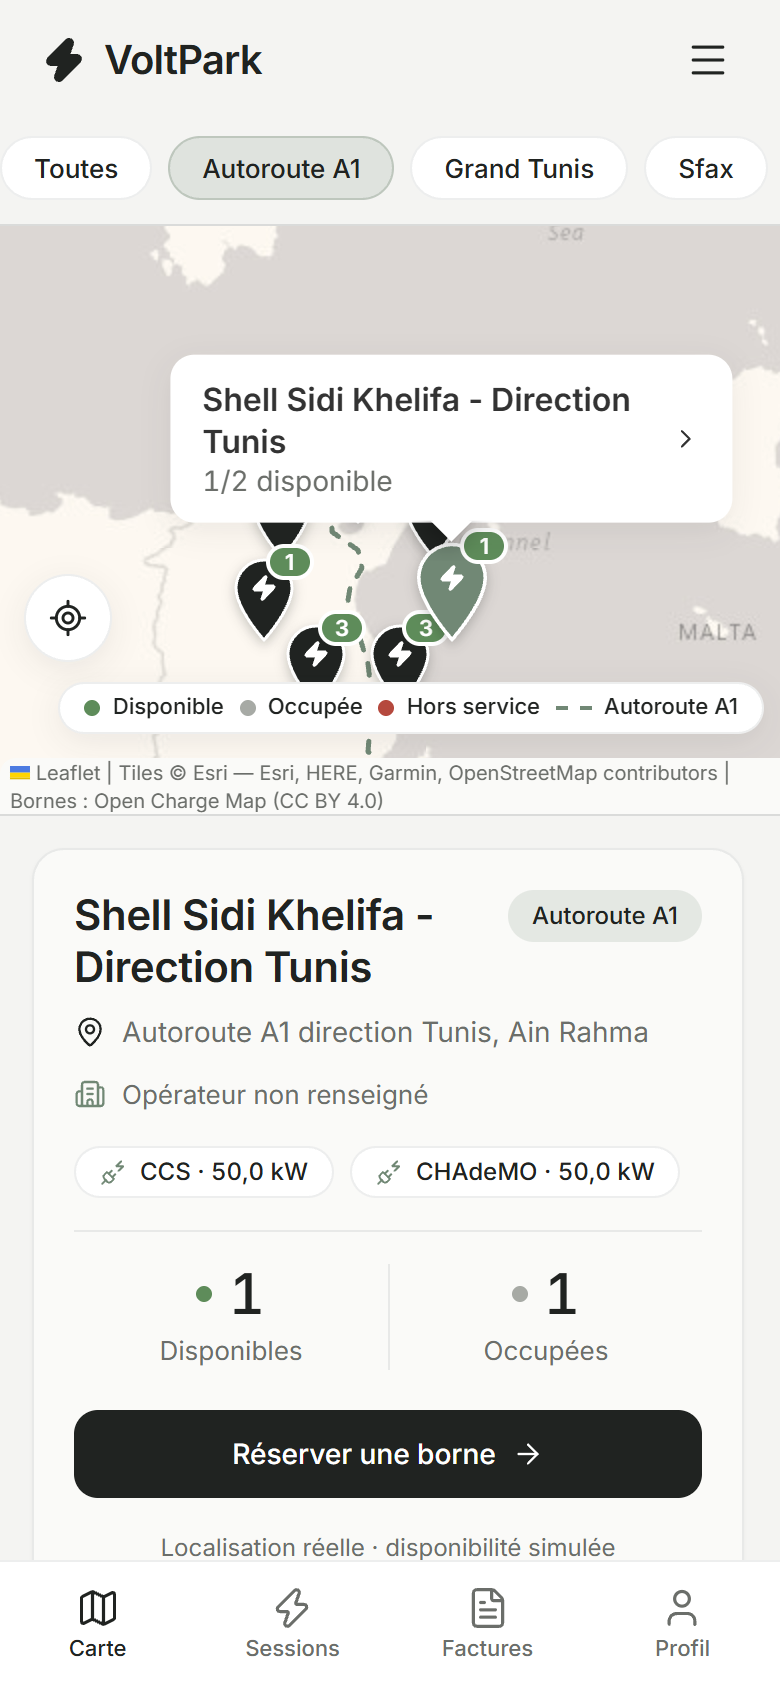
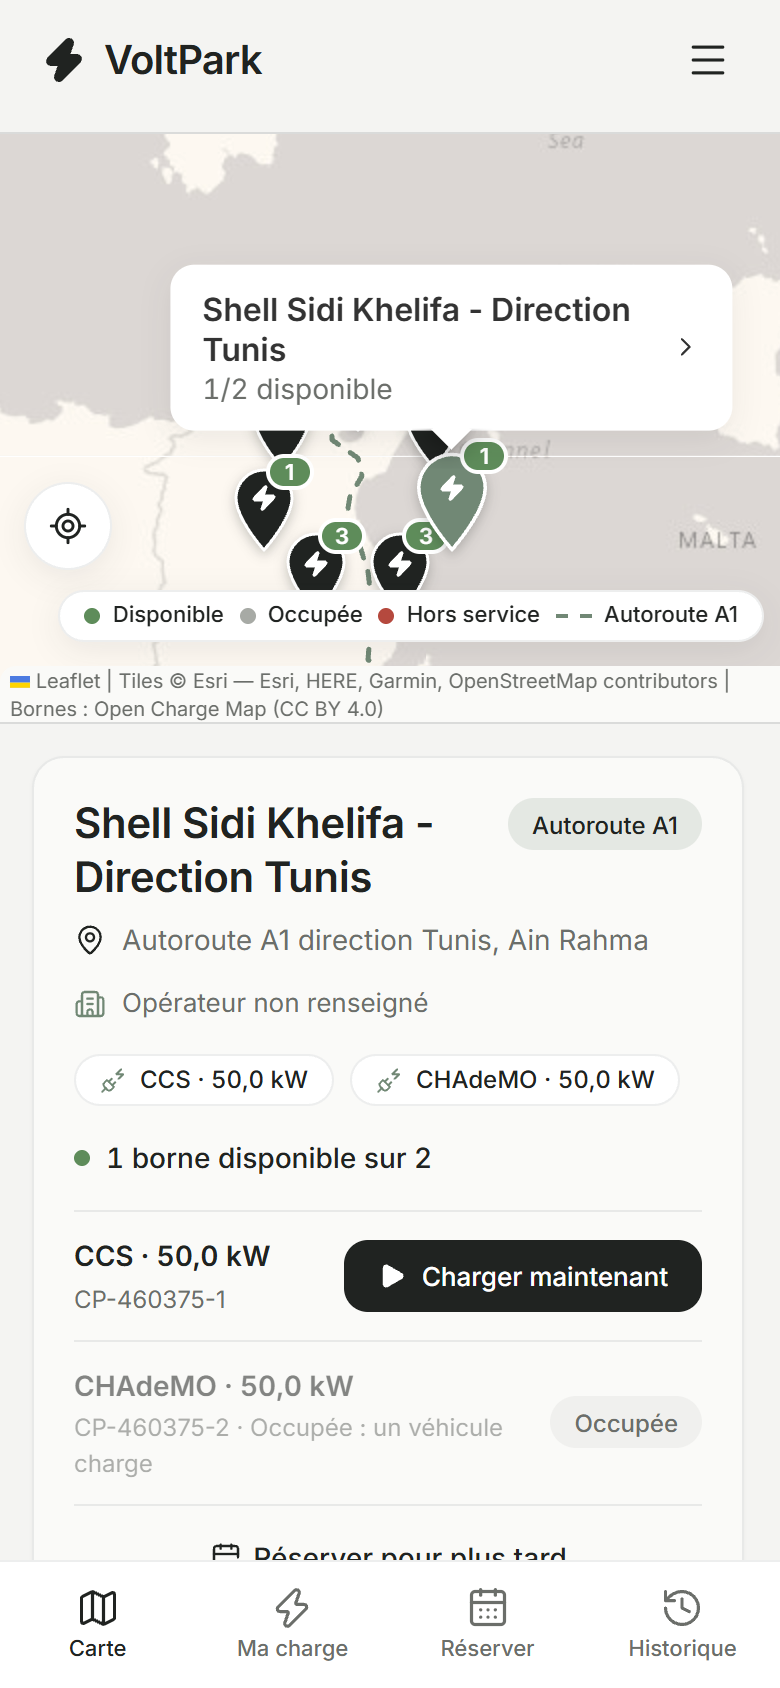
docs(frontend): update screenshots for the new journey
Welcome, map with charge now, confirmation sheet, live charge, receipt, pending start, reservations, history and invoice, on desktop and phone; obsolete session and invoice list captures removed.

diff --git a/README.md b/README.md
@@ -145,7 +145,7 @@ docker run --rm -v "$PWD/api-gateway:/app" -w /app maven:3.9-eclipse-temurin-17 
 
 Application web du conducteur (`frontend/`) : React 19, TypeScript, Vite, React Router, carte Leaflet (react-leaflet) et icônes lucide-react. Elle n'appelle que l'API Gateway.
 
-![Tableau de bord : carte, station et vue d’ensemble](docs/screenshots/carte.png)
+![Carte : prochaine étape, filtres, fiche de la station avec « Charger maintenant »](docs/screenshots/carte.png)
 
 **Parcours de charge.** Un seul chemin évident, comme dans les applications de recharge : trouver une borne → charger maintenant → suivre la charge → arrêter → reçu. Réserver pour plus tard reste possible, en option.
 
@@ -156,6 +156,14 @@ Application web du conducteur (`frontend/`) : React 19, TypeScript, Vite, React 
 5. **Charge terminée** : ouvert automatiquement après l'arrêt (énergie, durée, heures pleines / creuses, total, statut), avec « Voir la facture » et « Retour à la carte ». Facture `PENDING_ENERGY` : explication et « Recalculer ».
 
 De la carte à la charge : 3 clics (épingle, « Charger maintenant », « Démarrer la charge »).
+
+| Accueil | Confirmation | Ma charge | Charge terminée |
+|---|---|---|---|
+| ![Accueil : comptes de démonstration](docs/screenshots/welcome.png) | ![Feuille « Charger maintenant »](docs/screenshots/sheet.png) | ![Charge en cours, simulation ×60](docs/screenshots/live.png) | ![Reçu après l’arrêt](docs/screenshots/receipt.png) |
+
+| Téléphone : carte | Feuille du bas | Ma charge | Reçu |
+|---|---|---|---|
+| ![Carte sur téléphone](docs/screenshots/carte-mobile.png) | ![Feuille du bas](docs/screenshots/sheet-mobile.png) | ![Ma charge sur téléphone](docs/screenshots/live-mobile.png) | ![Reçu sur téléphone](docs/screenshots/receipt-mobile.png) |
 
 **Pages**
 
@@ -193,7 +201,7 @@ VITE_API_BASE_URL=http://localhost:8080/api/v1 npm run dev     # http://localhos
 
 **Données de démonstration.** Les stations sont des bornes **réelles** de Tunisie, issues d'Open Charge Map (licence CC BY 4.0) : 14 stations publiques et opérationnelles (stations-service, aires d'autoroute, municipalité, centres commerciaux ; sans les concessionnaires), dont 7 aires de l'autoroute A1 Tunis - Sfax, et 28 bornes (fichier partagé `data/stations-tn.json`, voir [data/README.md](data/README.md)). La position, l'opérateur et les connecteurs sont réels ; la disponibilité, les prix et l'occupation sont simulés. Au premier démarrage (bases vides), session-service et charger-gateway-service créent ces stations et bornes avec les mêmes identifiants (`ST-OCM-460375`, `CP-460375-1`), 4 conducteurs (`TAG-BLOCKED` est refusé par les bornes), des sessions et factures sur les 7 derniers jours et quelques réservations. Pour repartir de ces données : `docker compose down -v`.
 
-**Captures d'écran** (`docs/screenshots/`) : tableau de bord sans session (`carte.png` en 1920 × 1080, `carte-1440.png`, `carte-mobile.png`) et avec une session en direct (`carte-live.png`, `carte-live-1440.png`, `carte-live-mobile.png`, `mobile-session.png`), `session-live.png`, `sessions.png`, `reservation.png`, `factures.png`, `facture.png`, `pending-start.png`.
+**Captures d'écran** (`docs/screenshots/`) : accueil (`welcome.png`, `welcome-mobile.png`) ; carte avec une station de l'A1 choisie (`carte.png` en 1920 × 1080, `carte-1440.png`, `carte-mobile.png`), pendant une charge (`carte-live.png`) et avec une réservation proche dans « prochaine étape » (`carte-reservation.png`) ; feuille « Charger maintenant » (`sheet.png`, `sheet-mobile.png`) et démarrage en attente (`pending-start.png`) ; Ma charge (`live.png`, `live-mobile.png`) ; reçu « Charge terminée » (`receipt.png`, `receipt-mobile.png`) ; `facture.png`, `historique.png`, `reservations.png`.
 
 ## Répartition des tâches
 
